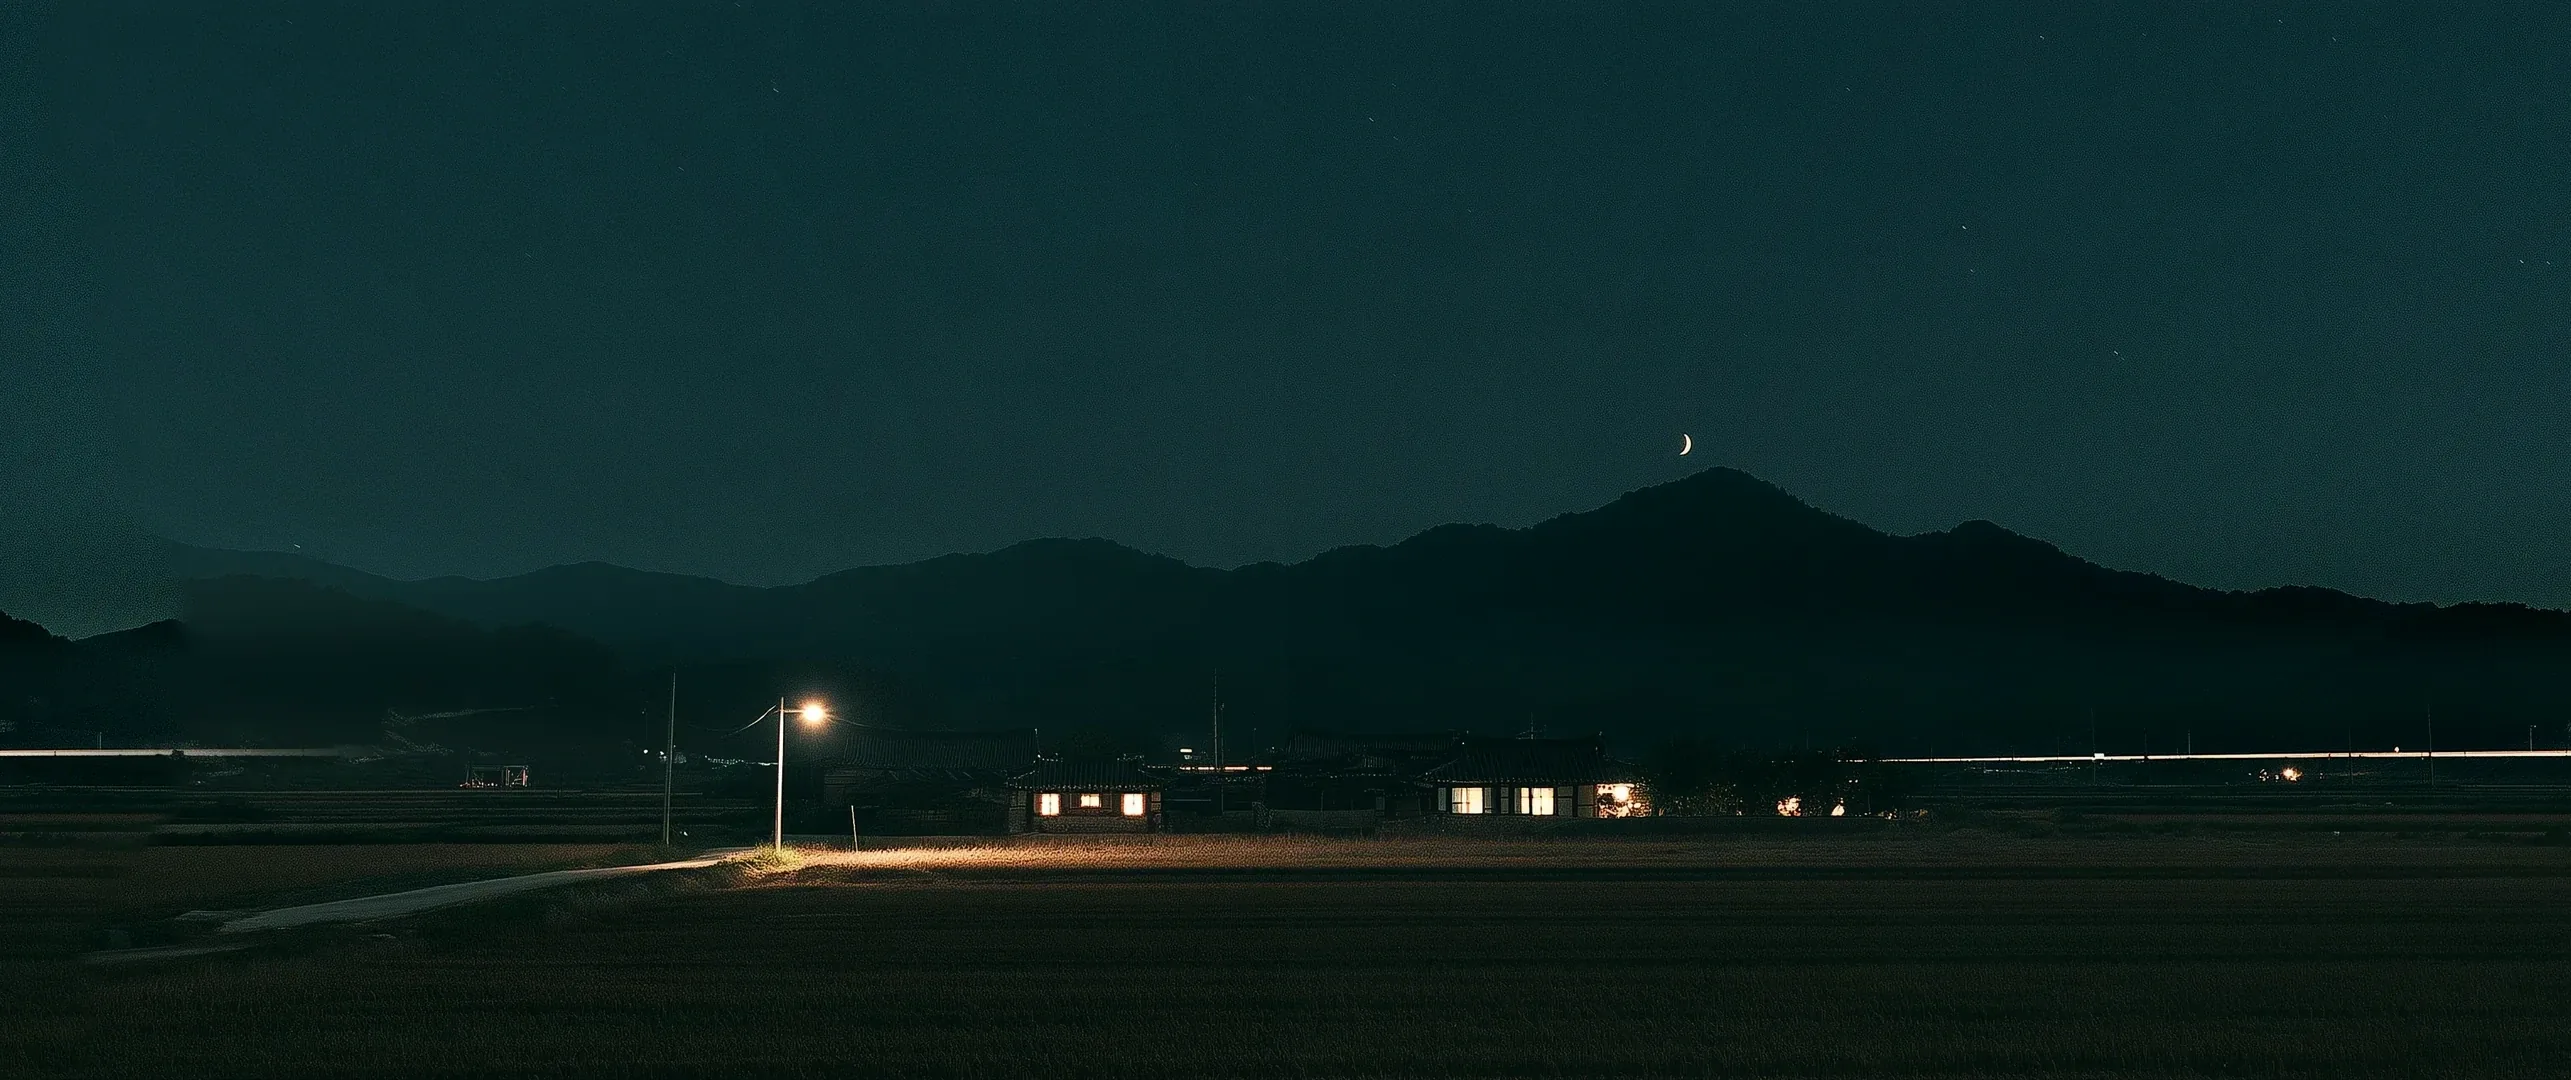
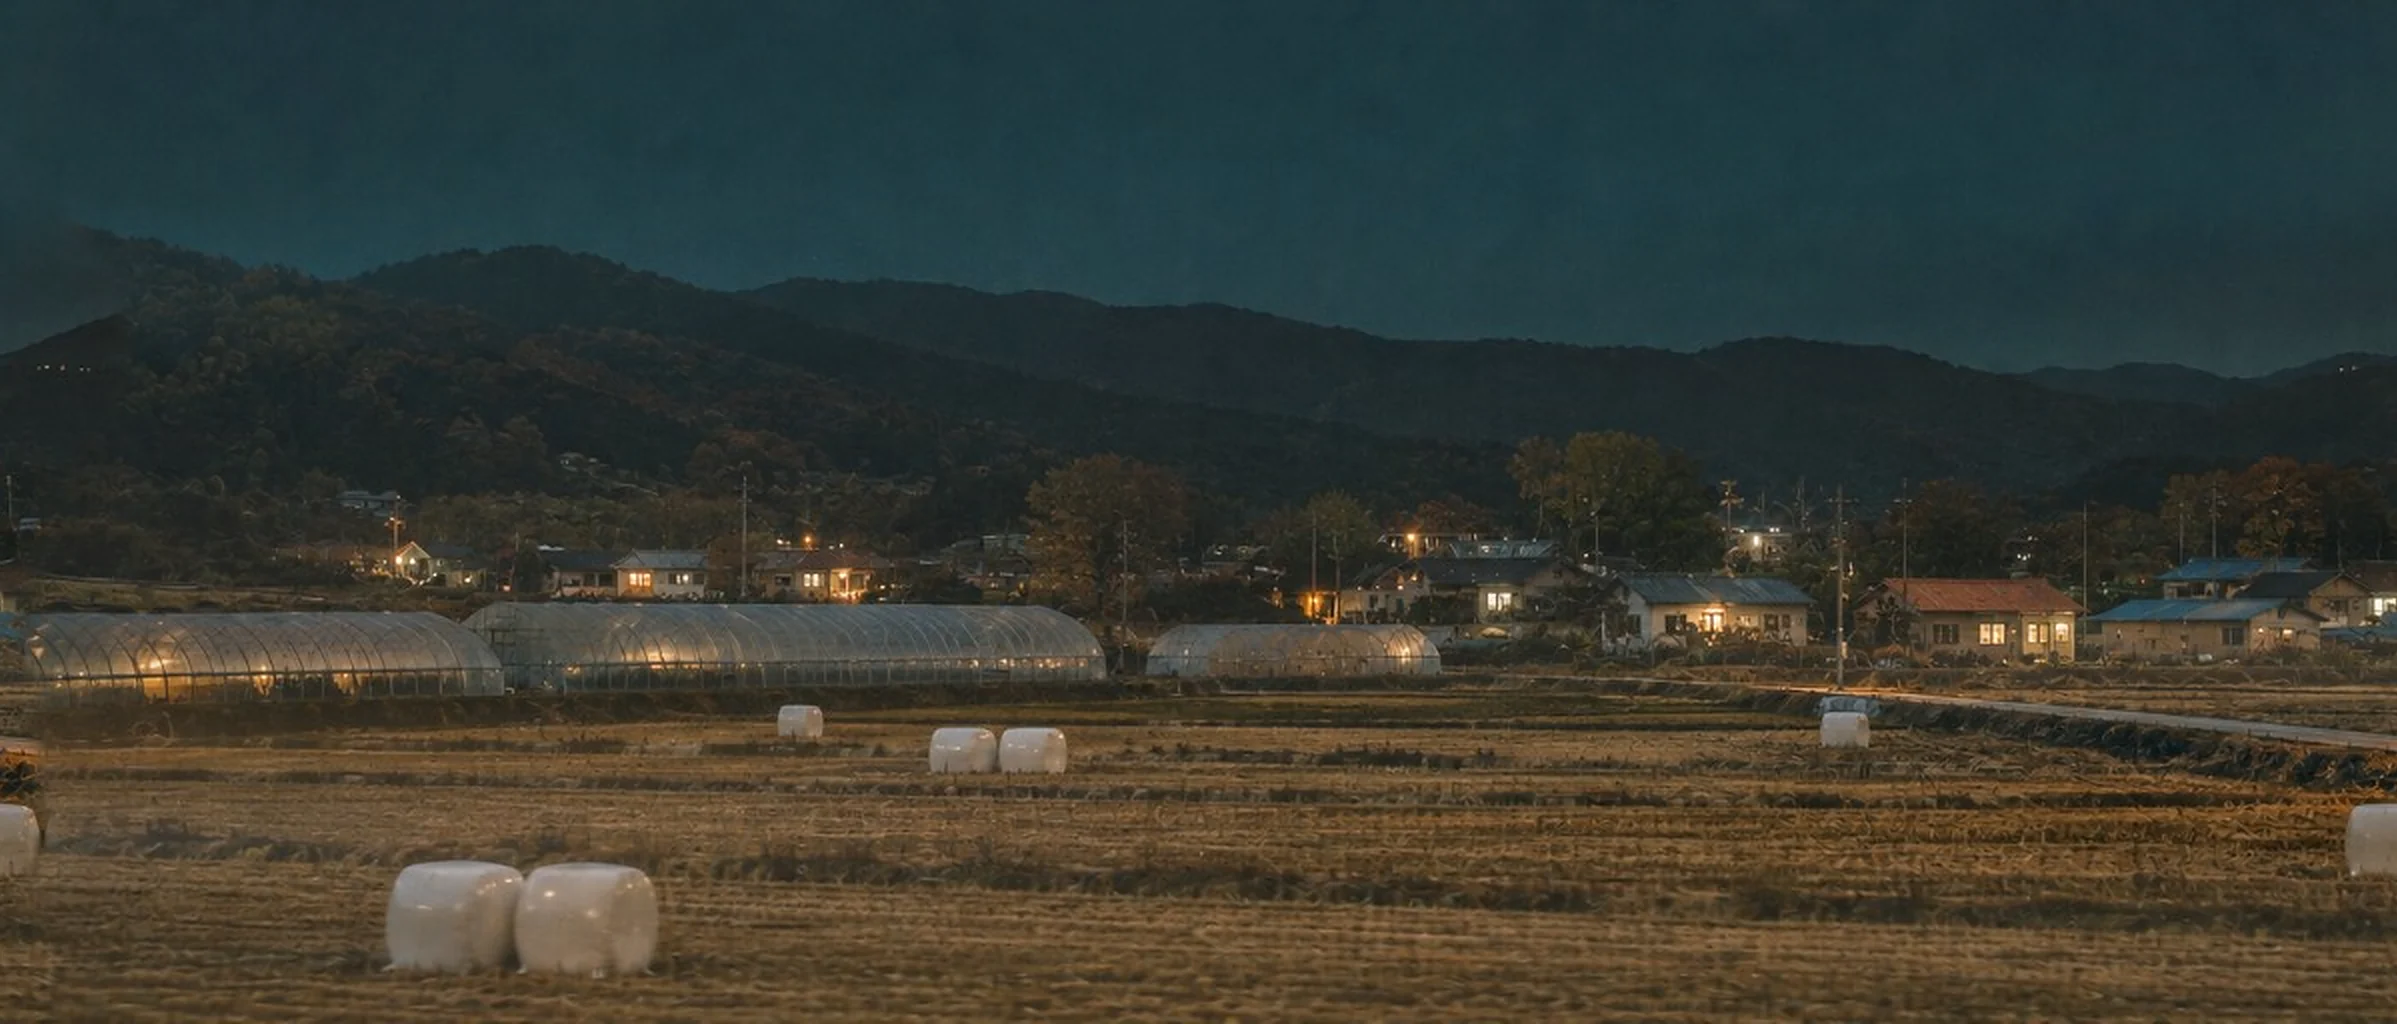
한국 구간 새 풍경 11장 적용 (경산·대구·공단·구미·김천·추풍령·영동·대전·조치원·평택·수원), 색감 보정 완화, 장면별 풀숲/중경 조건
Claude-Session: https://claude.ai/code/session_015fNbvzvz4xuREQtMjmLhTY

diff --git a/index.html b/index.html
@@ -57,7 +57,7 @@ button{font:inherit;color:inherit;background:none;border:0;cursor:pointer;paddin
 #win{position:absolute;inset:0;border-radius:18px;overflow:hidden;background:#8aa;
   box-shadow:0 0 0 3px #2b1c12,0 0 0 5px #a3824f,0 0 0 7px #2b1c12,inset 0 0 0 1px rgba(0,0,0,.4)}
 #win canvas{position:absolute;inset:0;width:100%;height:100%;display:block}
-#cv{filter:saturate(.86) contrast(.96)}
+#cv{filter:saturate(.95)}
 #glasscv{pointer-events:none;transition:opacity 1.2s}
 #glassrefl{position:absolute;inset:0;pointer-events:none;mix-blend-mode:screen;transition:opacity 1.5s;opacity:0;background:radial-gradient(ellipse 9% 7% at 61% 97%,rgba(255,216,160,.30),transparent 70%),radial-gradient(ellipse 48% 30% at 53% 104%,rgba(255,190,120,.22),transparent 70%),radial-gradient(ellipse 30% 20% at 20% 100%,rgba(255,200,140,.06),transparent 70%)}
 #glass{position:absolute;inset:0;pointer-events:none;box-shadow:inset 0 0 30px rgba(0,0,0,.45);
@@ -494,7 +494,8 @@ function drawPhoto(c,S,ph,pxm){
   if(S.light>.5){c.fillStyle='rgba(255,240,220,'+((S.light-.5)*.25)+')';c.fillRect(0,0,W,H)}
   if(ph.dusk&&S.light<.55){c.fillStyle='rgba(6,12,28,'+Math.min(.5,(.55-S.light)*1.1)+')';c.fillRect(0,0,W,H)}
 }
-function drawFG(c,S,pxm){const ph=PHOTO.fg;if(!ph||!ph.ready||B[S.bk].photo==='seoul'||BRIDGES.some(q=>S.km>q[0]&&S.km<q[1]))return;
+const GRASS={busan:1,country:1,kr01:1,kr05:1,kr06:1,kr10:1,kr11:1,kr15:1,kr16:1};
+function drawFG(c,S,pxm){const ph=PHOTO.fg;if(!ph||!ph.ready||!GRASS[B[S.bk].photo]||BRIDGES.some(q=>S.km>q[0]&&S.km<q[1]))return;
   const th=H*.46,sc=th/ph.h,tw=ph.w*sc,off=((S.vo*pxm*1.5)%tw+tw)%tw;
   const bg=c.createLinearGradient(0,H*.7,0,H*.84);bg.addColorStop(0,'rgba(13,14,11,0)');bg.addColorStop(1,'rgba(13,14,11,1)');c.fillStyle=bg;c.fillRect(0,H*.7,W,H*.3);
   c.globalAlpha=S.light>.5?.75:.95;
@@ -541,7 +542,7 @@ function buildBelt(){const q=Math.min(2,DPR||1),bh=Math.round(H*.5*q),bw=Math.ro
   gb.globalCompositeOperation='lighter';for(const L of lights){const [lx,ly,lw,lh]=L;if(lx>bw)continue;const gr=gb.createRadialGradient(lx+lw/2,ly+lh/2,0,lx+lw/2,ly+lh/2,lw*2.4);gr.addColorStop(0,'rgba(255,190,110,.4)');gr.addColorStop(1,'rgba(255,170,90,0)');gb.fillStyle=gr;gb.fillRect(lx-lw*2,ly-lw*2,lw*5,lw*5);gb.fillStyle='rgba(255,214,150,.85)';gb.fillRect(lx,ly,lw,lh)}
   belt={c:cb,w:bw,h:bh}}
 try{buildBelt()}catch(e){}
-function drawBelt(c,S,kind){if(!belt||!BELTK[kind])return;const sc=(H*.5)/belt.h,tw=belt.w*sc,th=belt.h*sc,off=((S.vo*(W/40)*.36)%tw+tw)%tw,y=H*.8-th;
+function drawBelt(c,S,kind){if(!belt||!BELTK[kind]||!GRASS[kind])return;const sc=(H*.5)/belt.h,tw=belt.w*sc,th=belt.h*sc,off=((S.vo*(W/40)*.36)%tw+tw)%tw,y=H*.8-th;
   c.globalAlpha=S.light>.5?.7:1;for(let x=-off;x<W;x+=tw)c.drawImage(belt.c,x,y,tw,th);c.globalAlpha=1}
 const BRIDGES=[[131.4,132.5],[238.2,239.1],[418.15,419.45]];
 function drawLineside(c,S,kind){
@@ -1339,7 +1340,7 @@ $('btnEat').onclick=()=>{const S=cur,fi=S.mode==='run'?S.i:Math.min(S.i,LAST-1);
   toast(FOOD[fi][0],FOOD[fi][1]);$('bento').classList.add('on');clearTimeout(bentoT);bentoT=setTimeout(()=>$('bento').classList.remove('on'),40000)};
 
 // ───────── 루프 ─────────
-let vo=0,lastT=performance.now(),curBk=null,prevBk=null,blend=1,cur={mode:'stop',i:0,km:0,v:0},announced=-1;window.__cur=()=>cur;
+let vo=Math.random()*20000,lastT=performance.now(),curBk=null,prevBk=null,blend=1,cur={mode:'stop',i:0,km:0,v:0},announced=-1;window.__cur=()=>cur;
 let passStart=-1,nextPass=performance.now()+25000+Math.random()*30000;const PASSDUR=2600;
 let miniStart=-1,nextMini=performance.now()+50000+Math.random()*60000,miniNo=0,fStart=-1,nextF=performance.now()+90000+Math.random()*90000,fSeed=0,nextCond=performance.now()+120000+Math.random()*180000;
 let prevTz=null,prevElev=null,sunEv=null,sunCheck=0,sunAlerted='';
@@ -1368,12 +1369,12 @@ function postFX(night){const w=cv.width,h=cv.height;if(!w)return;cx.setTransform
   const b1=bl1.getContext('2d'),b2=bl2.getContext('2d');b1.globalCompositeOperation='copy';b1.drawImage(cv,0,0,sw,sh);
   b1.globalCompositeOperation='multiply';b1.drawImage(bl1,0,0);b1.drawImage(bl1,0,0);
   b2.globalCompositeOperation='copy';b2.drawImage(bl1,0,0,bl2.width,bl2.height);b1.globalCompositeOperation='copy';b1.drawImage(bl2,0,0,sw,sh);
-  cx.globalCompositeOperation='screen';cx.globalAlpha=.55+.35*night;cx.drawImage(bl1,0,0,w,h);
+  cx.globalCompositeOperation='screen';cx.globalAlpha=.3+.2*night;cx.drawImage(bl1,0,0,w,h);
   // 필름처럼 검정을 살짝 띄움
-  cx.globalAlpha=1;cx.fillStyle='rgb(20,24,27)';cx.fillRect(0,0,w,h);
+  cx.globalAlpha=1;cx.fillStyle='rgb(9,11,12)';cx.fillRect(0,0,w,h);
   // 그레인
   if(!grnPat)grnPat=cx.createPattern(grn,'repeat');if((grainTick++&1)===0){gox=Math.random()*192;goy=Math.random()*192}
-  cx.globalCompositeOperation='overlay';cx.globalAlpha=.10+.06*night;cx.translate(-gox,-goy);cx.fillStyle=grnPat;cx.fillRect(gox,goy,w,h);cx.setTransform(1,0,0,1,0,0);
+  cx.globalCompositeOperation='overlay';cx.globalAlpha=.07+.04*night;cx.translate(-gox,-goy);cx.fillStyle=grnPat;cx.fillRect(gox,goy,w,h);cx.setTransform(1,0,0,1,0,0);
   cx.globalAlpha=1;cx.globalCompositeOperation='source-over'}
 function frame(now){
   const dt=Math.min(.1,(now-lastT)/1000);lastT=now;
